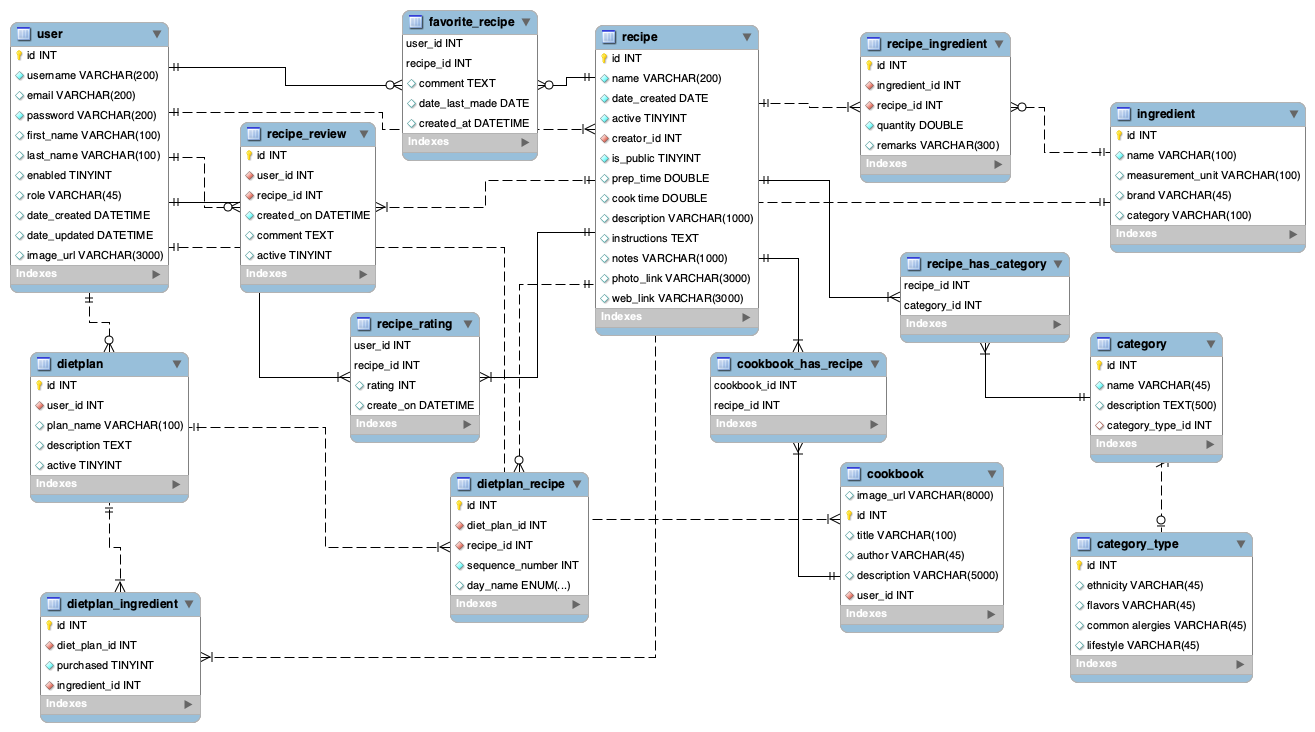
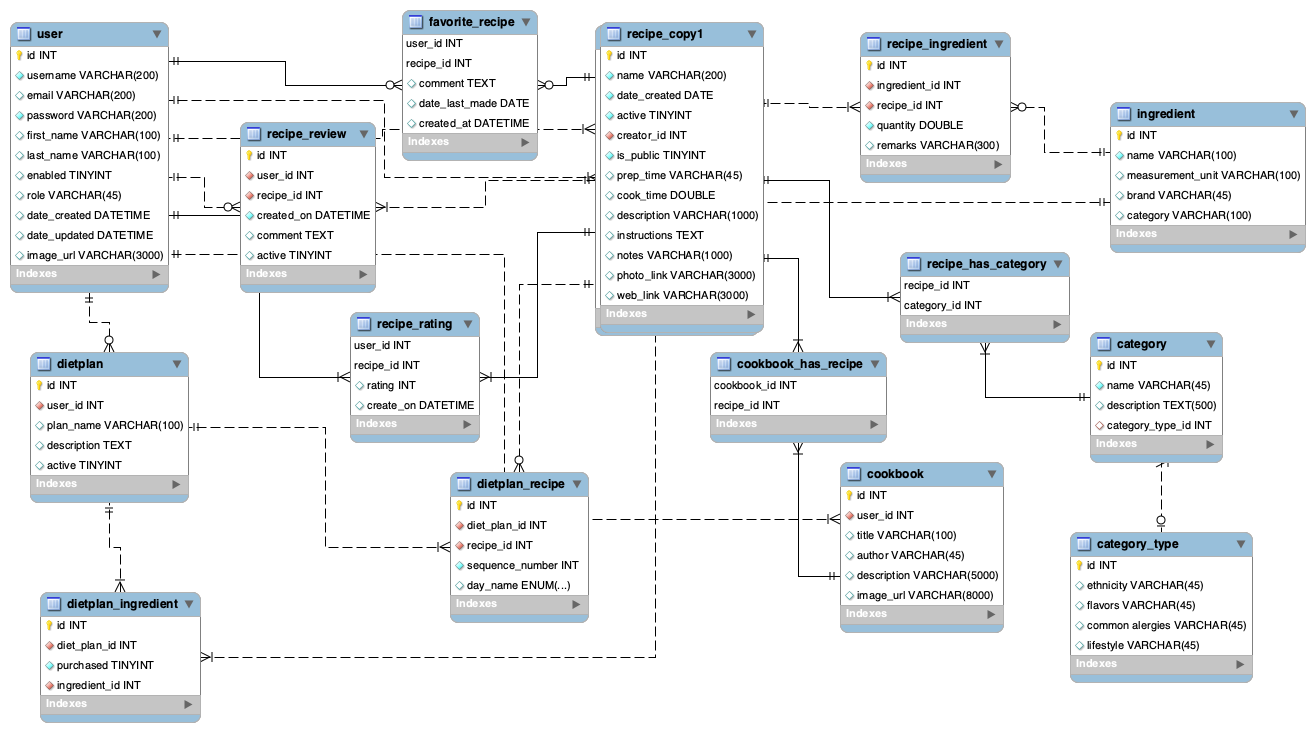
adding cookbook entity/test and DB updates

diff --git a/JPARecipeTracker/src/main/java/com/skilldistillery/recipetracker/entities/Cookbook.java b/JPARecipeTracker/src/main/java/com/skilldistillery/recipetracker/entities/Cookbook.java
@@ -1,5 +1,93 @@
 package com.skilldistillery.recipetracker.entities;
 
+import java.util.Objects;
+
+import javax.persistence.Column;
+import javax.persistence.Entity;
+import javax.persistence.GeneratedValue;
+import javax.persistence.GenerationType;
+import javax.persistence.Id;
+
+@Entity
 public class Cookbook {
 
+	@Id
+	@GeneratedValue(strategy = GenerationType.IDENTITY)
+	private int id;
+
+	private String title;
+	private String author;
+	private String description;
+	@Column(name = "image_url")
+	private String url;
+
+	public Cookbook() {
+		super();
+	}
+
+	public int getId() {
+		return id;
+	}
+
+	public void setId(int id) {
+		this.id = id;
+	}
+
+	public String getTitle() {
+		return title;
+	}
+
+	public void setTitle(String title) {
+		this.title = title;
+	}
+
+	public String getAuthor() {
+		return author;
+	}
+
+	public void setAuthor(String author) {
+		this.author = author;
+	}
+
+	public String getDescription() {
+		return description;
+	}
+
+	public void setDescription(String description) {
+		this.description = description;
+	}
+
+	public String getUrl() {
+		return url;
+	}
+
+	public void setUrl(String url) {
+		this.url = url;
+	}
+
+	@Override
+	public int hashCode() {
+		return Objects.hash(id);
+	}
+
+	@Override
+	public boolean equals(Object obj) {
+		if (this == obj)
+			return true;
+		if (obj == null)
+			return false;
+		if (getClass() != obj.getClass())
+			return false;
+		Cookbook other = (Cookbook) obj;
+		return id == other.id;
+	}
+
+	@Override
+	public String toString() {
+		return "Cookbook [id=" + id + ", title=" + title + ", author=" + author + ", description=" + description
+				+ ", url=" + url + "]";
+	}
+
+
+	
 }

diff --git a/JPARecipeTracker/src/test/java/com/skilldistillery/recipetracker/entities/CookbookTest.java b/JPARecipeTracker/src/test/java/com/skilldistillery/recipetracker/entities/CookbookTest.java
@@ -1,0 +1,25 @@
+package com.skilldistillery.recipetracker.entities;
+
+import static org.junit.jupiter.api.Assertions.assertEquals;
+import static org.junit.jupiter.api.Assertions.assertNotNull;
+
+import org.junit.jupiter.api.Test;
+
+class CookbookTest extends TestTemplate {
+
+	private Cookbook cookbook;
+
+	@Override
+	void setUp() throws Exception {
+		cookbook = em.find(Cookbook.class, 1);
+	}
+
+	@Test
+	void test_Cookbook_entity_mapping() {
+		assertNotNull(cookbook);
+		assertEquals("On Cooking: A Textbook of Culinary Fundamentals, 6th edition", cookbook.getTitle());
+		assertEquals("Sarah R. Labensky", cookbook.getAuthor());
+
+	}
+
+}
